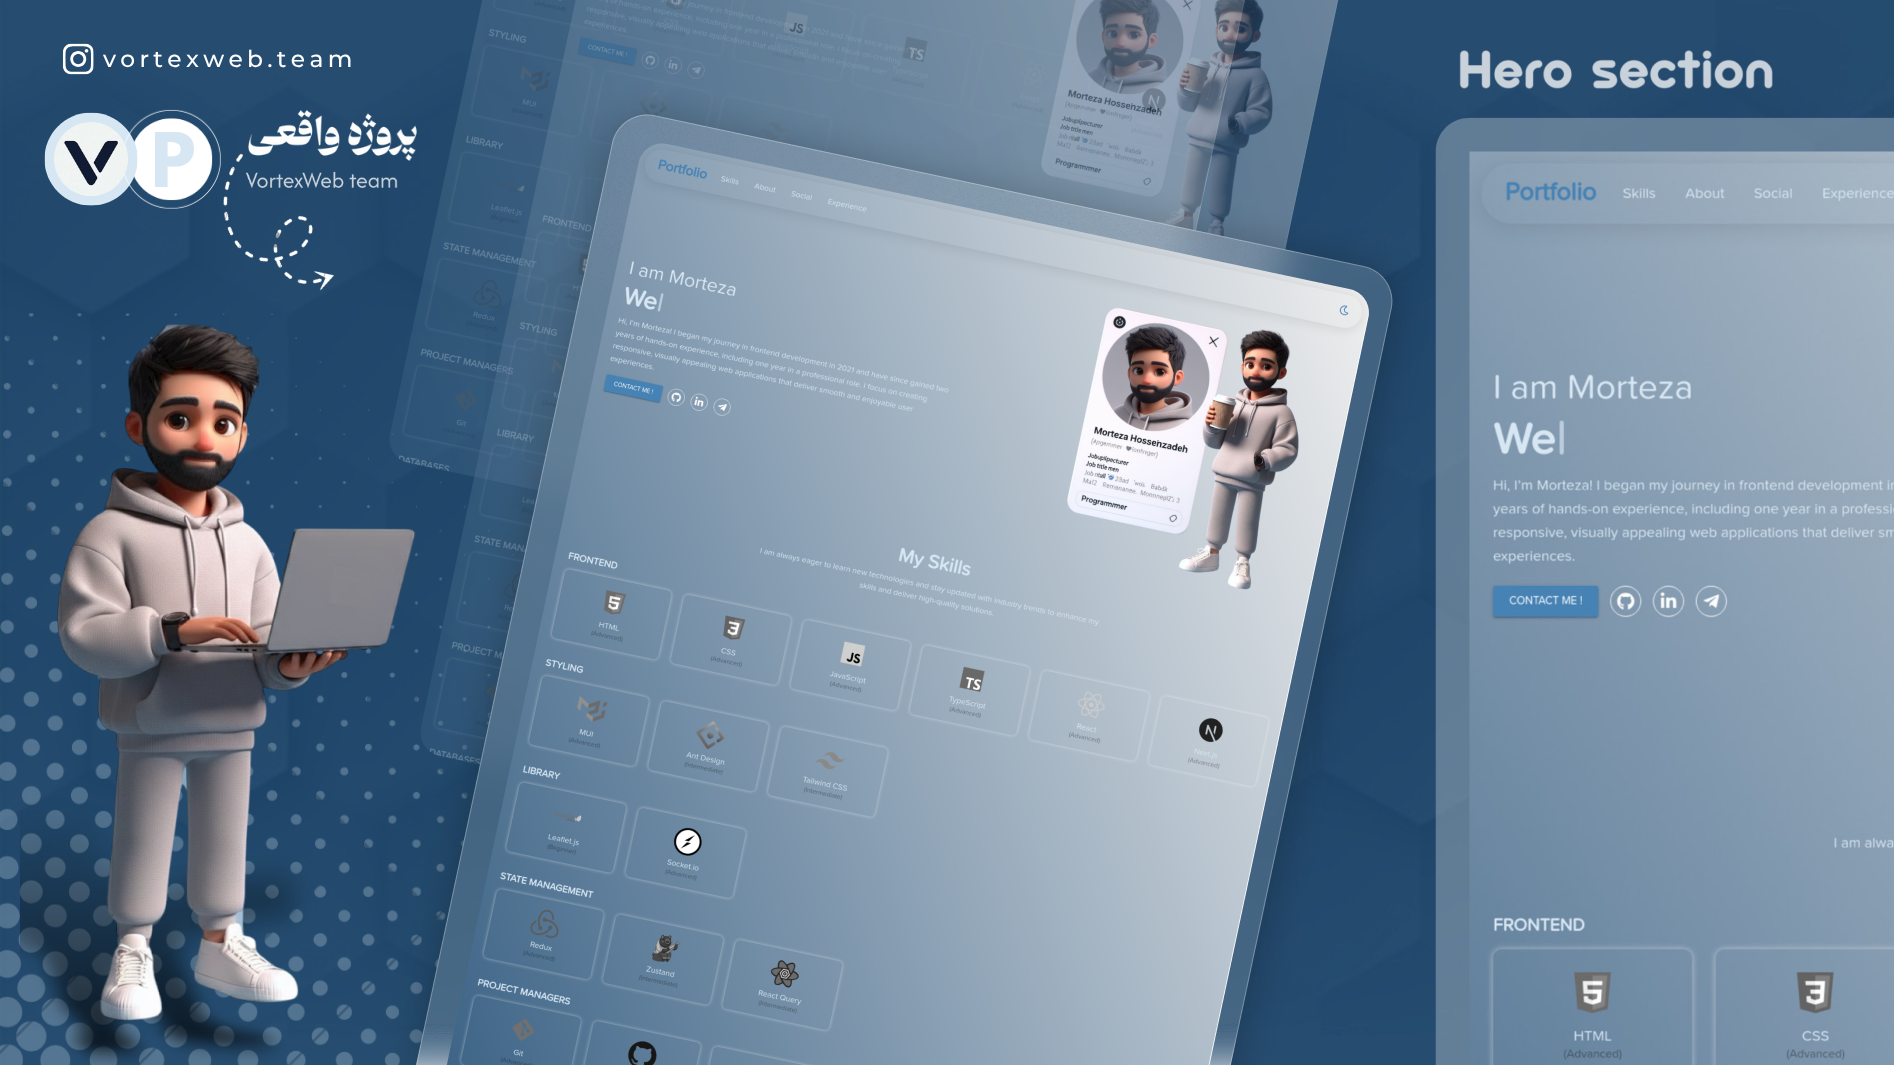
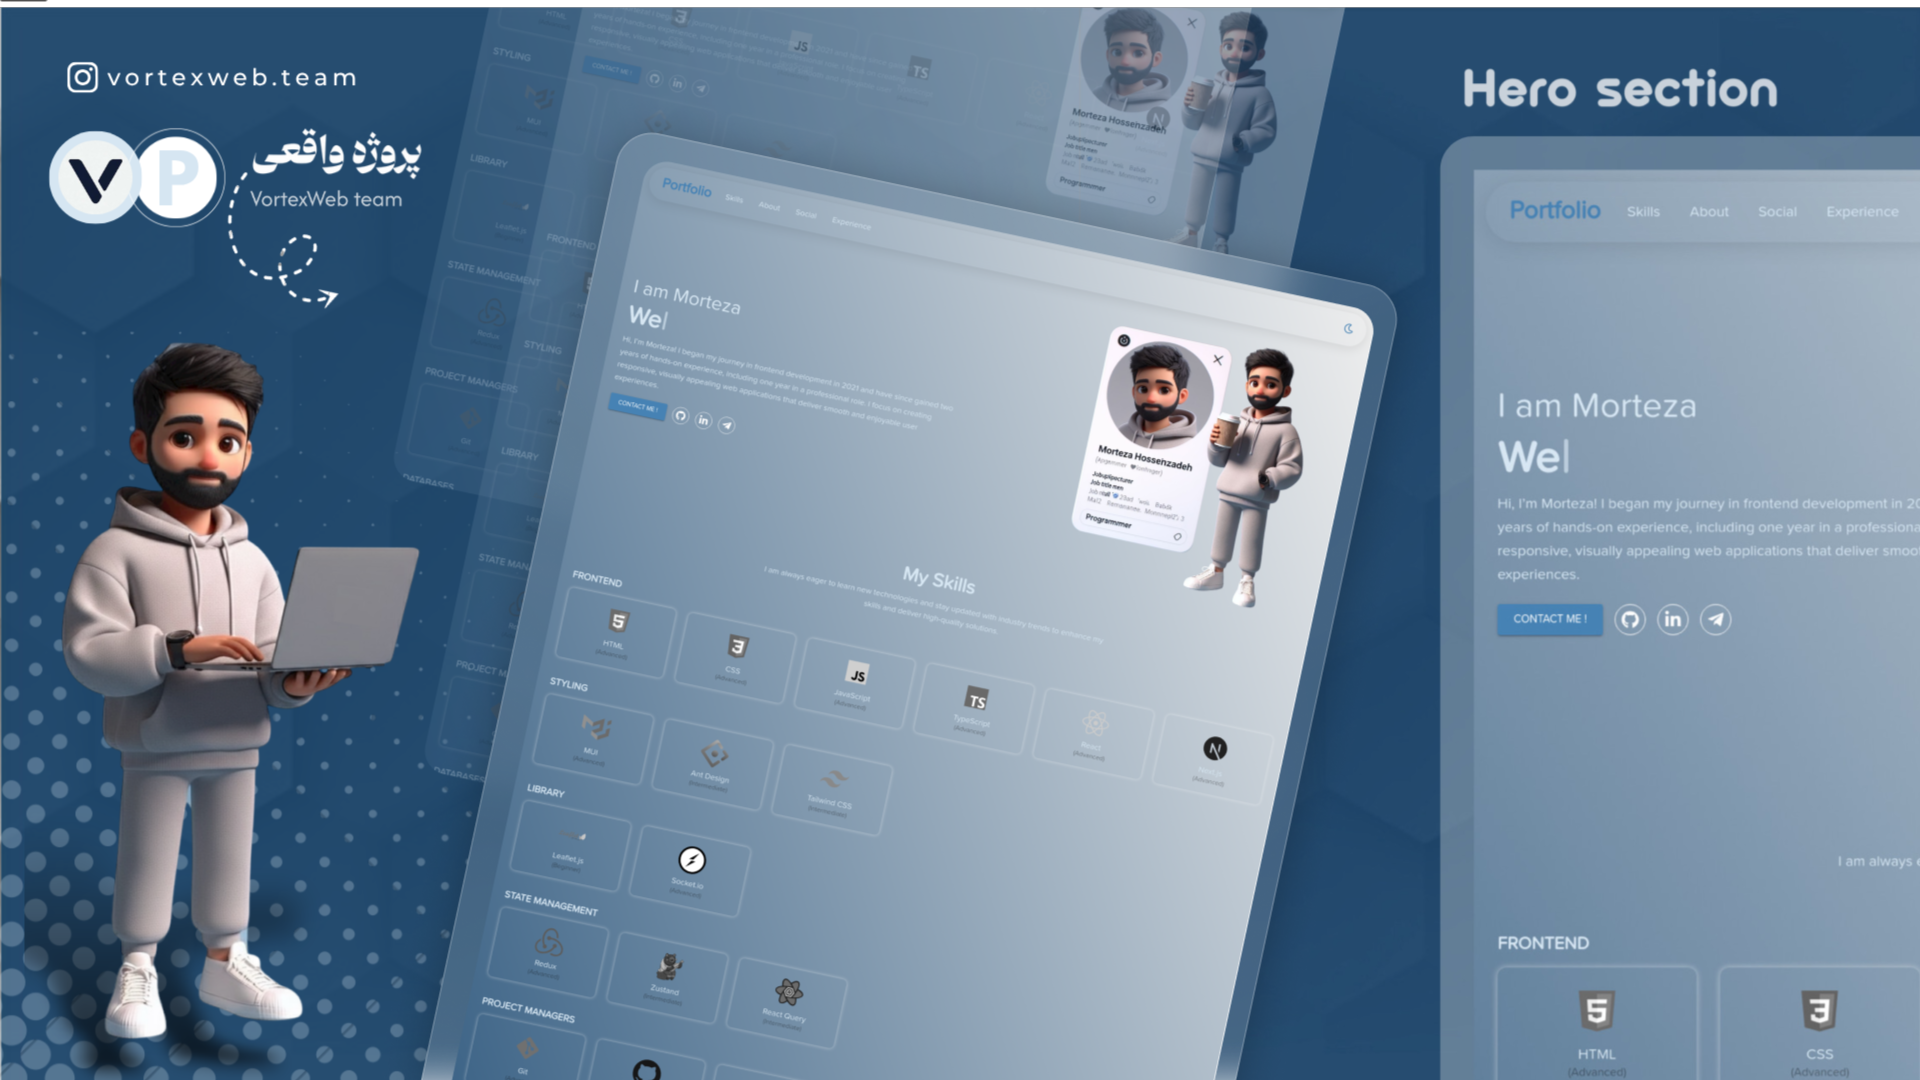
Add new portfolios into app

diff --git a/src/components/pages/Home/Portfolios.tsx b/src/components/pages/Home/Portfolios.tsx
@@ -97,7 +97,6 @@ function PortfolioCard({ item, index }: { item: PortfolioItem; index: number }) 
             <Image className="card-image" src={item.mockup} alt={item.alt} fill sizes="(max-width: 768px) 100vw, (max-width: 1200px) 50vw, 33vw" style={{ objectFit: 'cover' }} onLoad={() => setImageLoaded(true)} priority={index < 3} />
           </motion.div>
         </Box>
-
         {/* Views Counter */}
         {item?.views !== 0 && (
           <motion.div initial={{ opacity: 0, x: 20 }} animate={{ opacity: 1, x: 0 }} transition={{ delay: index * 0.1 + 0.2 }}>
@@ -107,7 +106,6 @@ function PortfolioCard({ item, index }: { item: PortfolioItem; index: number }) 
             </Box>
           </motion.div>
         )}
-
         {/* Gradient Overlay */}
         <Box sx={{ position: 'absolute', inset: 0, background: 'linear-gradient(to top, rgba(10, 5, 30, 0.95) 0%, rgba(107, 78, 255, 0.6) 40%, transparent 100%)', opacity: isHovered ? 1 : 0.9, transition: 'opacity 0.4s ease', display: 'flex', flexDirection: 'column', justifyContent: 'flex-end', p: { xs: 2.5, sm: 3, md: 3.5 } }}>
           {/* Logo and Name */}
@@ -165,7 +163,6 @@ function PortfolioCard({ item, index }: { item: PortfolioItem; index: number }) 
             </Button>
           </motion.div>
         </Box>
-
         {/* Sparkle Effect on Hover */}
         {isHovered && <Box sx={{ position: 'absolute', top: 0, left: 0, right: 0, bottom: 0, pointerEvents: 'none', background: 'radial-gradient(circle at 50% 50%, rgba(107, 78, 255, 0.2), transparent)', animation: 'sparkle 0.5s ease-in-out' }} />}
       </Box>

diff --git a/server.js b/server.js
@@ -24,7 +24,7 @@ app
     server.use('/api', require('./server/route'));
 
     // --- Custom Next.js Routes ---
-    const routes = ['/', '/about', '/blog', '/portfolio', '/pricing', '/support'];
+    const routes = ['/', '/about', '/portfolio', '/pricing', '/support'];
 
     routes.forEach((route) => {
       server.get(route, (req, res) => {
@@ -32,11 +32,11 @@ app
       });
     });
 
-    // Dynamic blog route
-    server.get('/blog/:category/:title', (req, res) => {
-      const { category, title } = req.params;
-      return app.render(req, res, '/blog/[category]/[title]', { category, title });
-    });
+    // // Dynamic blog route
+    // server.get('/blog/:category/:title', (req, res) => {
+    //   const { category, title } = req.params;
+    //   return app.render(req, res, '/blog/[category]/[title]', { category, title });
+    // });
 
     // --- Fallback for everything else ---
     server.all('*', (req, res) => handle(req, res));

diff --git a/src/components/pages/Home/HeroSection.tsx b/src/components/pages/Home/HeroSection.tsx
@@ -87,7 +87,7 @@ export default function HeroSection() {
         {startSecond && (
           <motion.div initial={{ opacity: 0, y: 10 }} animate={{ opacity: 1, y: 0 }} transition={{ duration: 0.6 }}>
             <Box sx={{ mb: 6 }}>
-              <Typography component="div" sx={{ fontSize: { xs: '0.9rem', sm: '1rem', md: '1.2rem' }, fontWeight: 400, color: 'rgba(255, 255, 255, 0.7)' }}>
+              <Typography component="div" sx={{ fontSize: { xs: '1rem', sm: '1.2rem', md: '1.4rem' }, fontWeight: 500, color: 'rgba(255, 255, 255, 0.85)' }}>
                 <div className={hideSecondCursor ? 'hide-cursor' : ''}>
                   <TypewriterComponent
                     options={{ cursor: ' ', delay: 50 }}

diff --git a/src/components/pages/Home/PricingTable.tsx b/src/components/pages/Home/PricingTable.tsx
@@ -14,7 +14,7 @@ export default function PricingTable() {
   const [hoveredPlan, setHoveredPlan] = useState<string | null>(null);
 
   // تاریخ پایان تخفیف
-  const discountEndDate = '۳۱ خرداد ۱۴۰۵';
+  const discountEndDate = '۳۱ تیر ۱۴۰۵';
   const discountTitle = 'همبستگی با مردم ایران 🇮🇷';
   const discountSubtitle = 'به پاس همراهی شما در شرایط سخت کشور، تمام پکیجها رو با ۵۰٪ تخفیف ویژه قرار دادیم.';
 
